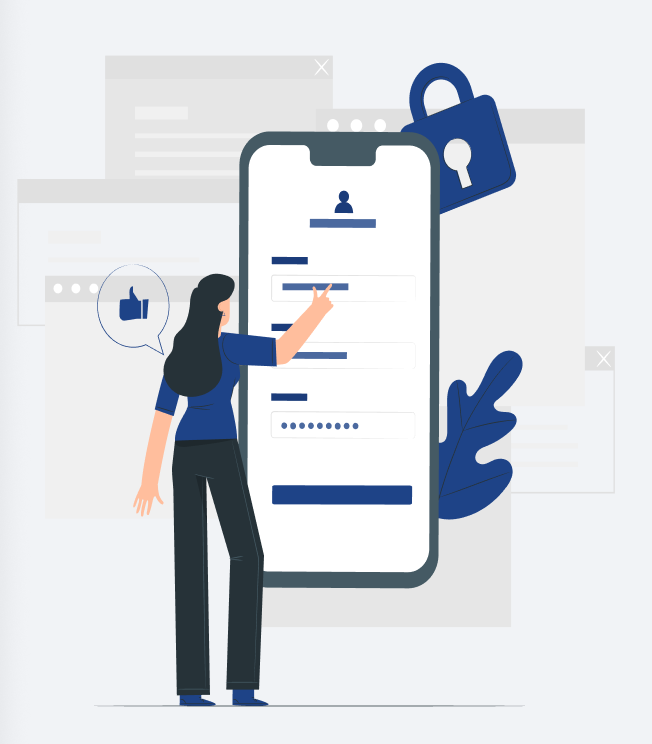
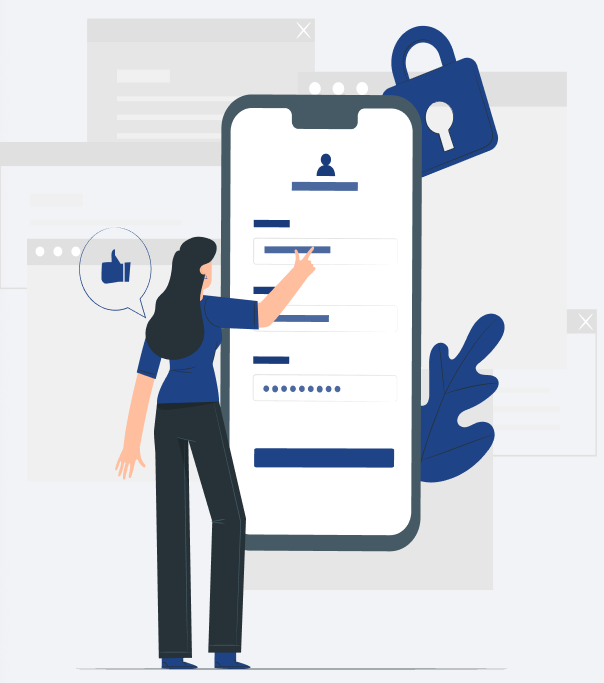
Login Page UI Revisions

Changed region(s): [[0.0894, 0.0307, 0.8344, 0.9839], [0.4172, 0.5227, 0.5662, 0.5842]]

diff --git a/public/assets/css/signin.css b/public/assets/css/signin.css
@@ -1,11 +1,26 @@
 html,
 body {
     height: 100%;
-    font-family: 'Inter';
+    font-family: 'Inter', sans-serif;
 }
 
 .login-form {
-    max-width: 400px;
+    background-image: url("/images/login_page_bg_design.png");
+    background-size: 80% 100%;
+    background-repeat: no-repeat;
+    background-attachment: fixed;
+}
+
+.login-form-content {
+    max-width: 100%;
+    margin: 20px;
+    padding: 20px;
+    background-color: rgba(255, 255, 255, 0.8);
+    border-radius: 8px;
+}
+
+.logo-title {
+    max-width: 650px;
     margin: auto;
 }
 
@@ -20,6 +35,7 @@ body {
 .btn-brand-color {
     background-color: #1E4387;
     border-color: #1E4387;
+    transition: background-color 0.3s ease;
 }
 
 .btn-brand-color:hover {
@@ -28,4 +44,15 @@ body {
 
 .vh-100 {
     min-height: 100vh;
+}
+
+
+/* Responsive Adjustments */
+
+@media (max-width: 768px) {
+    .login-form,
+    .logo-title {
+        max-width: 100%;
+        padding: 15px;
+    }
 }

diff --git a/resources/views/auth/login.blade.php b/resources/views/auth/login.blade.php
@@ -2,21 +2,33 @@
 
 @section('content')
 <div class="container-fluid">
-    <div class="row align-items-center">
-        <div class="col-md-6">
-            <div class="d-flex justify-content-center">
-                <div class="login-form mt-4">
-                    <form method="post" action="{{ route('login.perform') }}">
-                        <input type="hidden" name="_token" value="{{ csrf_token() }}" />
-                        <img class="mb-4" src="{!! url('/images/login_logo.png') !!}" alt="" width="70%" height="auto">
+    <div class="row vh-100 align-items-center">
+        <div class="login-form col-md-6 d-none d-md-flex h-100 align-items-center justify-content-center">
+                <form method="post" action="{{ route('login.perform') }}">
+                    <input type="hidden" name="_token" value="{{ csrf_token() }}" />
+                    <div class="logo-title row align-items-end">
+                        <div class="col-md-6">
+                            <img src="{!! url('/images/login_logo.png') !!}" alt="" class="img-fluid" style="max-width: 100%; height: 210px;">
+                        </div>
+                        <div class="col-md-6">
+                            <h1 class="fw-bolder" style="color:#1E4387">COMPASS</h1>
+                            <p class="fw-bolder">COMPETENCY ASSESSMENT</p>
+                        </div>
+                    </div>
+                    <div class="row pt-4">
+                        <div class="col">
+                            <p class="text-center text-secondary fw-bolder mb-3">Log into your account</p>
+                        </div>
+                    </div>
 
-                        <h1 class="h3 mb-3 fw-normal fw-bold">COMPASS</h1>
-
-                        @include('layouts.partials.messages')
-
-                        <div class="form-group form-floating mb-3">
+                    @include('layouts.partials.messages')
+                    <div class="login-form-content">
+                        <div class="text-left mb-3 fw-bolder">
+                            <label for="username" class="text-left">Email</label>
+                        </div>
+                        <div class="form-group mb-3">
                             <div class="input-group">
-                                <input type="text" class="form-control" name="username" value="{{ old('username') }}" placeholder="Email" required="required" autofocus>
+                                <input type="text" class="form-control" name="username" id="username" value="{{ old('username') }}" placeholder="[email redacted]" required="required" autofocus>
                                 <span class="input-group-text" style="background-color:#1E4387;"><i class="fa fa-envelope white-icon"></i></span>
                             </div>
                             @if ($errors->has('username'))
@@ -24,9 +36,12 @@
                             @endif
                         </div>
 
-                        <div class="form-group form-floating mb-3">
+                        <div class="text-left mb-3 fw-bolder">
+                            <label for="password">Password</label>
+                        </div>
+                        <div class="form-group mb-3">
                             <div class="input-group">
-                                <input type="password" class="form-control" name="password" value="{{ old('password') }}" placeholder="Password" required="required">
+                                <input type="password" class="form-control" name="password" id="password" value="{{ old('password') }}" placeholder="Enter your Password" required="required">
                                 <span class="input-group-text" style="background-color:#1E4387;"><i class="fa fa-lock white-icon"></i></span>
                             </div>
                             @if ($errors->has('password'))
@@ -37,20 +52,24 @@
                         @if(Session::has('errors'))
                             <span class="text-danger text-left">{{$errors->first()}}</span>
                         @endif
-                        <div class="mt-2">
-                            <a class="link-secondary" href="{{ route('password.request') }}">Forgot Password?</a>
+                        <div class="mt-2 mb-3">
+                            <a class="link-primary" href="{{ route('password.request') }}">Forgot password?</a>
                         </div>
-                        <button class="w-100 btn btn-lg text-light mt-2" type="submit"  style="background-color:#1E4387;">Login</button>
+                        <button class="w-100 btn btn-lg text-light mt-2 mb-3" type="submit" style="background-color:#1E4387;">Login</button>
                     
-                        @include('auth.partials.copy')
-                    </form>
-                </div>
-            </div>
+                        
+                    </div>
+
+                </form>
         </div>
 
-        <div class="col-md-6 d-none d-md-block" style="background-color:#f1f3f6;">
-            <img src="{!! url('/images/login_img.png') !!}" alt="Your Image Description" class="img-fluid">
+        <div class="col-md-6 d-none d-md-flex h-100 align-items-center justify-content-center" style="background-color:#f1f3f6;">
+            <img src="{!! url('/images/login_img.png') !!}" alt="Your Image Description" width="50%" class="mx-auto d-block">
         </div>
+      
+    </div>
+    <div class="row">
+         @include('auth.partials.footer')
     </div>
 </div>
 @endsection

diff --git a/resources/views/auth/partials/footer.blade.php b/resources/views/auth/partials/footer.blade.php
@@ -1,0 +1,12 @@
+<footer class="d-flex flex-wrap justify-content-between align-items-center py-2 border-top bg-light pt-3">
+    <div class="col-md-4 d-flex align-items-center">
+        <ul class="list-unstyled d-flex">
+            <li class="ms-3"><p><a href="#">Privacy Policy</a></p></li>
+            <li class="ms-3"><p><a href="#">Terms of Use</a></p></li>
+        </ul>
+    </div>
+
+    <ul class="nav col-md-4 justify-content-end list-unstyled d-flex">
+      <li><p class="text-muted">&copy; {{ date('Y') }} <span class="text-primary">DTI COMPASS</span></p></li>
+    </ul>
+  </footer>

diff --git a/resources/views/layouts/auth-master.blade.php b/resources/views/layouts/auth-master.blade.php
@@ -14,13 +14,14 @@
     <link href="{!! url('assets/bootstrap/css/bootstrap.min.css') !!}" rel="stylesheet">
     <link href="{!! url('assets/css/signin.css') !!}" rel="stylesheet">
     <link href="https://cdnjs.cloudflare.com/ajax/libs/font-awesome/5.13.0/css/all.min.css" rel="stylesheet">
-
+    <link rel="preconnect" href="https://fonts.googleapis.com">
+    <link href="https://fonts.googleapis.com/css2?family=Inter:wght@700&family=Lato:wght@300&family=Poppins:wght@100;400&display=swap" rel="stylesheet">
     {{-- @vite(['resources/sass/app.scss', 'resources/js/app.js']) --}}
 
     
 
 </head>
-<body class="text-center">
+<body>
     
     <main class="form-signin">
 